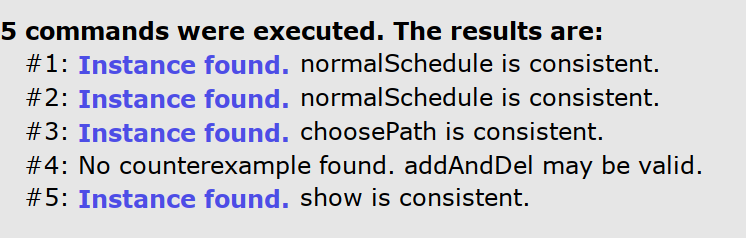
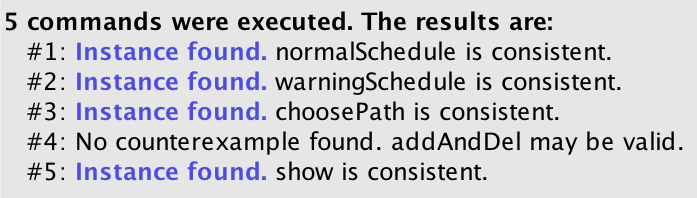
fix little bug in alloy

diff --git a/RASD.rst b/RASD.rst
@@ -946,7 +946,7 @@ Dynamic model
     pred show{}
 
 
-    run normalSchedule for 5 but exactly 1 String
+    run warningSchedule for 5 but exactly 1 String
     run normalSchedule for 5 but exactly 1 String
     run choosePath for 4 but 1 User,2 Position,2 Vehicle, exactly 1 String, 1 Event, 2 Path
     check addAndDel
